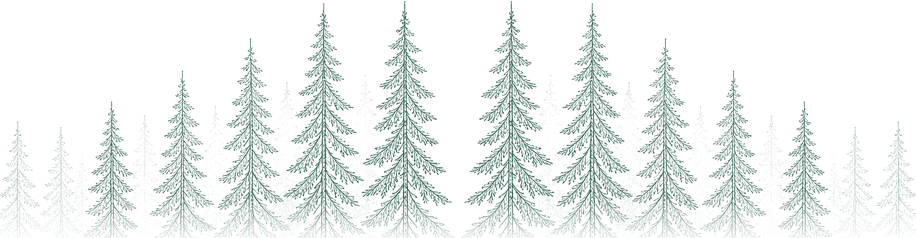
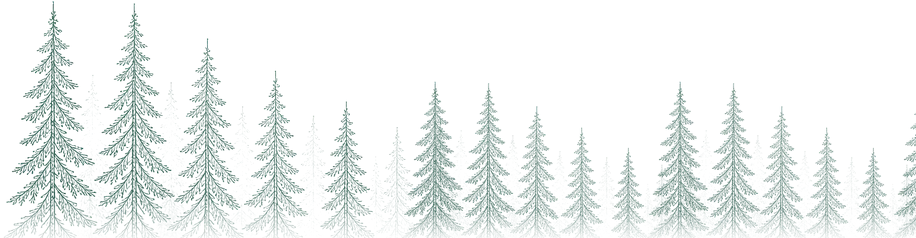
批四/批五：森林去镜像对称（左近右远）/ 飞入曲线改 linear 治「一卡一卡」（跳变 60.3%→12.5%）/ 语录中文一行＋署名贴回＋高度降一档

diff --git a/index.html b/index.html
@@ -350,15 +350,21 @@ img{display:block}
       · 批二说"间距弄大一点" → 行距/段距一起放大（只放段距会显得松散）；
       · 批三澄清"**我想要的不是增加宽度，是增加高度**" → 上一轮把宽度 340→520 是**走错了方向**
         （块变得又宽又扁、下方照样空）。**现在：宽度收回 380，高度靠 字号＋行高＋段距 一起提。**
+      · **批四再收一档**：用户"中文字放在一行（不然署名离文字太远）＋ 整体高度调低一点点" →
+        中文 18→**17**、行高 2.75→**2.5**、段距 24→**16**、
+        **署名距 24→10**（署名贴回正文）。
+      ⚠ **中文那句必须一行放得下**：17px × 19 字 × 1.07（字距）≈ 345px。
+        宽度**保持 380**（试过 400：英文从 3 行掉到 2 行 → 块高 235 直落 158，降得太狠；
+        380 下英文仍是 3 行，中文 345px 也有 35px 余量）。字号再加、或宽度收到 345 以下会折行。
       ⚠ 别再只调 max-width —— 那条路的终点是"更宽更扁"。左竖线只到文字高度，别跟着变长。 */
 #knowledgeGate .gq-en{display:block;font-family:var(--serif);font-style:italic;
-  font-size:clamp(11.5px,1vw,15px);line-height:2.75;letter-spacing:.02em;
+  font-size:clamp(11.5px,1vw,15px);line-height:2.5;letter-spacing:.02em;
   text-wrap:balance;   /* ⭐ 批三：字号放大后英文断成 3 行、末行只剩一个词 → 均衡每行长度 */
   color:rgba(47,93,80,.62)}
-#knowledgeGate .gq-cn{display:block;margin-top:24px;font-family:var(--serif);
-  font-size:clamp(13.5px,1.18vw,18px);line-height:2.7;letter-spacing:.07em;
+#knowledgeGate .gq-cn{display:block;margin-top:16px;font-family:var(--serif);
+  font-size:clamp(13px,1.04vw,17px);line-height:2.5;letter-spacing:.07em;
   color:rgba(47,93,80,.70)}
-#knowledgeGate .gq-by{display:block;margin-top:24px;text-align:right;white-space:nowrap;
+#knowledgeGate .gq-by{display:block;margin-top:10px;text-align:right;white-space:nowrap;
   font-size:clamp(11px,.9vw,13px);letter-spacing:.14em;color:rgba(176,138,62,.62)}
 /* ② 证书式双细金框 + 四角十字章（十字用墨绿，与鎏金框拉开一层） */
 #knowledgeGate .gframe{position:absolute;z-index:3;pointer-events:none;
@@ -444,10 +450,17 @@ img{display:block}
 #knowledgeGate .gscene{position:absolute;left:50%;top:32.4%;width:88%;aspect-ratio:916/238;
   transform:translateX(-50%);pointer-events:none}
 #knowledgeGate .gscene img{position:absolute;display:block;pointer-events:none}
-/* 森林：⭐ **`mirror(A)|A` 拼接**（A = 原纵深图的"浓→淡"段，中间最密、向两侧渐淡）。
-   ⚠ 上一版直接用原图 → 它的树只长在左侧 45%，右侧 55% 全空；枝横贯过去就是"悬在空中"
-      （用户："右边这里怎么没有树了，这个树枝这么长不突兀嘛"）。
-   ⚠ 拼法必须**零缩放**（左右两半都是 1:1 的同一段镜像）—— 拉伸会得到一片变胖的树。 */
+/* 森林：⭐⭐ **多层错落 ＋ 整体横向渐变**（2026-09-21 批五定稿）。
+   **两层目标分开做**，合成一锅就调不动（试过）：
+     ① **层位负责结构**：A(1:1) ／ .66A 原向 ／ .66A 镜像 ×2 —— x 错开、全部**底对齐**
+        → 铺满整幅、树形不重复（关键是**不再是镜像对称**）；
+     ② **整体渐变负责浓淡**：一条 左 1.0 → 右 .86 的横向 alpha 渐变 → 左近右远。
+   ⚠⚠ 别改成"逐层 opacity"造纵深：那样调不出单调递减，中右部反而比中左浓
+      （实测 [33,30,24,23,19,30,30,16,8,9] —— 50~70% 处冒出一段 30）。
+   ⚠ 演进：原图一张（树只长左侧 45%、右半张空）→ `mirror(A)|A`（铺满了但**左右完全镜像**，
+      用户："对称太规整"）→ **现在这版**（实测列墨量 33→10，左半均墨是右半的 **1.57 倍**）。
+   ⚠ 各层**必须底对齐**（地平线一致），否则会出现两条地平线。
+   ⚠ 改层位后**必须用 `col_ink()` 重测列墨量**：右半每一段都要有墨（上一稿掉到 5~8＝又空一段）。 */
 #knowledgeGate .gf{left:0;bottom:0;width:100%;height:88%;opacity:.27;
   transition:opacity .8s ease .42s}
 #knowledgeGate.unlocked .gf{opacity:0}
@@ -475,12 +488,27 @@ img{display:block}
 #knowledgeGate .koh3{left:62.7%}
 #knowledgeGate .koh2{left:16.2%}
 #knowledgeGate .koh4{left:83.8%}
+/* 飞入的渐显：**单挂一条动画**，不放进 `knFlyIn*` 的关键帧里 ——
+   放进关键帧会多切一段属性插值，段间就多一次速度台阶（批五实测到过）。
+   0.12s ≈ 原来那个"10% 处 opacity:1"的时刻。 */
+@keyframes knFade{from{opacity:0}to{opacity:1}}
 /* 扑翅：**独立 scale 属性**（不是 transform）→ 才能和飞入/飞离的 transform 叠加而不互相覆盖。
    ⚠ scale 属性要 Chrome 104+ / Safari 14.1+（本站在用的都是现代浏览器）。 */
 @keyframes knPulse{
   0%,100%{scale:1}
   50%{scale:1.05 1.09}}
 /* 飞入：从画面外侧斜掠 → 滑翔 → 落枝 → 轻微一沉 → 站住。左右交替四条航线 ＋ 各自 delay。
+   ⭐⭐ 2026-09-21 批五：用户第二次说"飞来**还是一卡一卡**" → 换了条完全不同的路子查
+     （`anim_probe.py` 逐帧读 transform 算速度曲线），真因**不在主线程，在曲线本身**：
+     **CSS 的 `animation-timing-function` 作用在每一个关键帧区间上** ——
+     6 个帧位就是 5 段，每段各跑一遍"慢-快-慢" ⇒ 实测量到 **4 个速度峰**
+     （418 → 387 → 215 → 139 px/s），观感就是"一冲一顿"。批二治的是主线程（delay），
+     这一条治的是曲线，**两条都要在**。
+     · 治法①：每段改 **linear** → 段内速度恒定、整体单调递减（612→548→387→256→50）
+       ＝"一路减速滑翔"，不再反复加速。
+     · 治法②：`opacity` 从关键帧里**抽出来**单挂 `knFade` —— 只要关键帧里留着一个
+       "只声明 opacity"的帧（原来的 10%），属性插值就被多切一段、段间再多一次速度台阶。
+     ⚠ 改帧位/曲线后**必须用 `anim_probe.py` 复测**：速度序列要单调递减、峰数 ≤1。
    ⭐⭐ 2026-09-20 批二：delay 从 0.25s 整体挪到 **1.50s**，原因**量过**（`frame_probe.py` 四组对照）：
      · 只量"飞入"这一段 → **0 个长帧**（p50/p95 全 16.7ms，满 60fps）；
      · 与开门动效重叠时 → **7 个长帧**（p95 33ms）；
@@ -490,28 +518,30 @@ img{display:block}
    ⚠ 改这里必须**连 `knPulse` 的 delay 一起改**（两条动画必须同一时刻起）。
    ⚠ 别再挪回 0.25s：那不是"更即时"，是把飞入重新丢回主线程最挤的那一拍。 */
 @keyframes knFlyInL{
-  0%{transform:translate(-420%,-200%) rotate(-26deg) scale(.74);opacity:0}
-  10%{opacity:1}
+  0%{transform:translate(-420%,-200%) rotate(-26deg) scale(.74)}
   38%{transform:translate(-208%,-104%) rotate(-17deg) scale(.82)}
   62%{transform:translate(-92%,-42%) rotate(-9deg) scale(.9)}
   82%{transform:translate(-22%,-9%) rotate(-2.5deg) scale(.97)}
   92%{transform:translate(0,4%) rotate(1.2deg) scale(1.015)}
   100%{transform:translate(0,0) rotate(0) scale(1)}}
 @keyframes knFlyInR{
-  0%{transform:translate(430%,-215%) rotate(24deg) scale(.74);opacity:0}
-  10%{opacity:1}
+  0%{transform:translate(430%,-215%) rotate(24deg) scale(.74)}
   38%{transform:translate(214%,-110%) rotate(16deg) scale(.82)}
   62%{transform:translate(94%,-45%) rotate(8deg) scale(.9)}
   82%{transform:translate(24%,-10%) rotate(2.5deg) scale(.97)}
   92%{transform:translate(0,4%) rotate(-1.2deg) scale(1.015)}
   100%{transform:translate(0,0) rotate(0) scale(1)}}
-#knowledgeGate .koh1 img{animation:knFlyInL 1.05s cubic-bezier(.4,.1,.3,1) 1.50s both,
+#knowledgeGate .koh1 img{animation:knFlyInL 1.05s linear 1.50s both,
+                                  knFade .12s linear 1.50s both,
                                   knPulse .2s ease-in-out 1.50s 6}
-#knowledgeGate .koh2 img{animation:knFlyInR 1.05s cubic-bezier(.4,.1,.3,1) 1.78s both,
+#knowledgeGate .koh2 img{animation:knFlyInR 1.05s linear 1.78s both,
+                                  knFade .12s linear 1.78s both,
                                   knPulse .2s ease-in-out 1.78s 6}
-#knowledgeGate .koh3 img{animation:knFlyInL 1.05s cubic-bezier(.4,.1,.3,1) 2.04s both,
+#knowledgeGate .koh3 img{animation:knFlyInL 1.05s linear 2.04s both,
+                                  knFade .12s linear 2.04s both,
                                   knPulse .2s ease-in-out 2.04s 6}
-#knowledgeGate .koh4 img{animation:knFlyInR 1.05s cubic-bezier(.4,.1,.3,1) 2.30s both,
+#knowledgeGate .koh4 img{animation:knFlyInR 1.05s linear 2.30s both,
+                                  knFade .12s linear 2.30s both,
                                   knPulse .2s ease-in-out 2.30s 6}
 /* ⭐ 解锁：**鸟先各自飞走** → 树与枝随后淡出（"渐变成骑士"的那一半） */
 @keyframes knFlyOutL{
@@ -2649,7 +2679,7 @@ footer .ft-legal b{color:var(--muted);font-weight:500}
                       knowledge.js 的 `warmGateImages()` 里预取＋解码 —— 门一露脸就要飞入，
                       那一刻才开始下载就会掉帧。 -->
               <span class="gscene" aria-hidden="true">
-                <img class="gf" src="assets/forest-wide.webp?v=20260920f" alt=""
+                <img class="gf" src="assets/forest-wide.webp?v=20260921a" alt=""
                      width="458" height="119" loading="lazy" decoding="async">
                 <!-- 远枝（高、窄、淡、镜像）：先画，压在下层 -->
                 <span class="gperch gperch-far">
@@ -2978,6 +3008,6 @@ footer .ft-legal b{color:var(--muted);font-weight:500}
 
 <script src="docs.js?v=20260920c"></script>
 <script src="app.js?v=20260920f"></script>
-<script src="knowledge.js?v=20260920t"></script>
+<script src="knowledge.js?v=20260921a"></script>
 </body>
 </html>

diff --git a/knowledge.js b/knowledge.js
@@ -789,7 +789,7 @@ function openKnowledge(d) {
 //     不进首屏关键路径（首屏仍是 9 请求 / 0.44 MB），却让门一露脸时全是解码好的位图。
 function warmGateImages() {
   var list = [
-    "assets/forest-wide.webp?v=20260920f",
+    "assets/forest-wide.webp?v=20260921a",
     "assets/branch-fade.webp?v=20260920g",
     "assets/crest-post.webp?v=20260920d",
     
